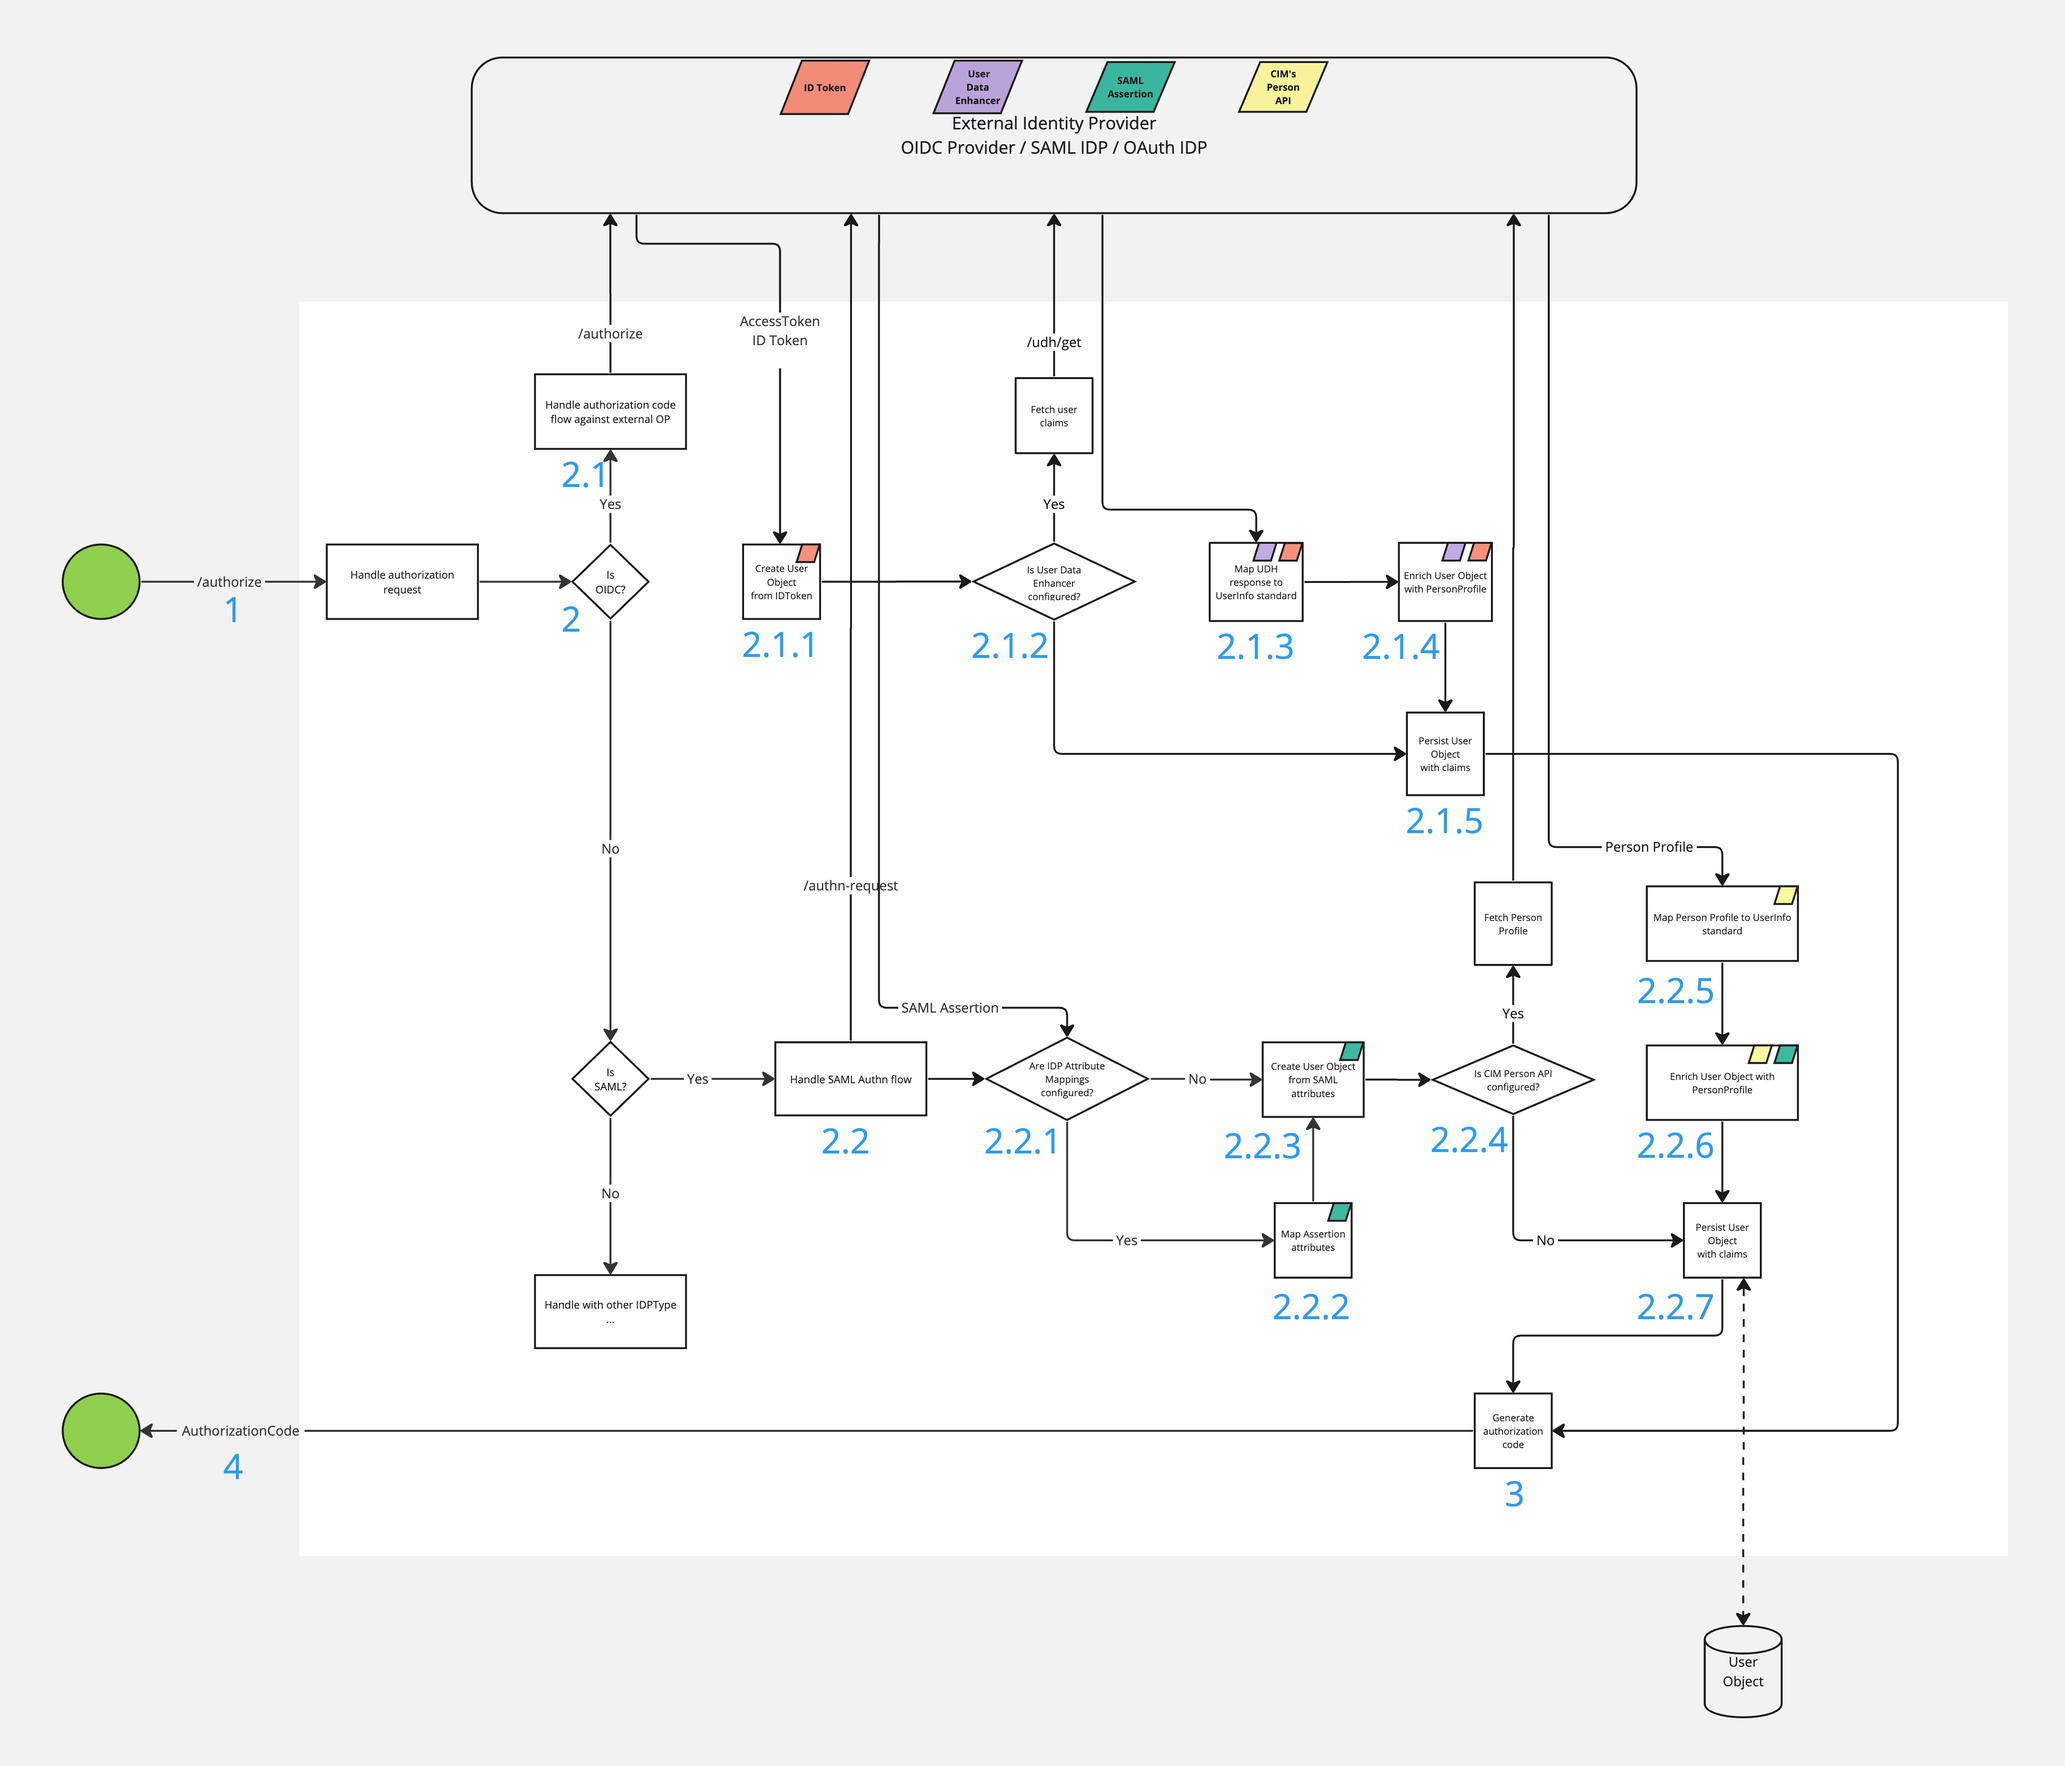
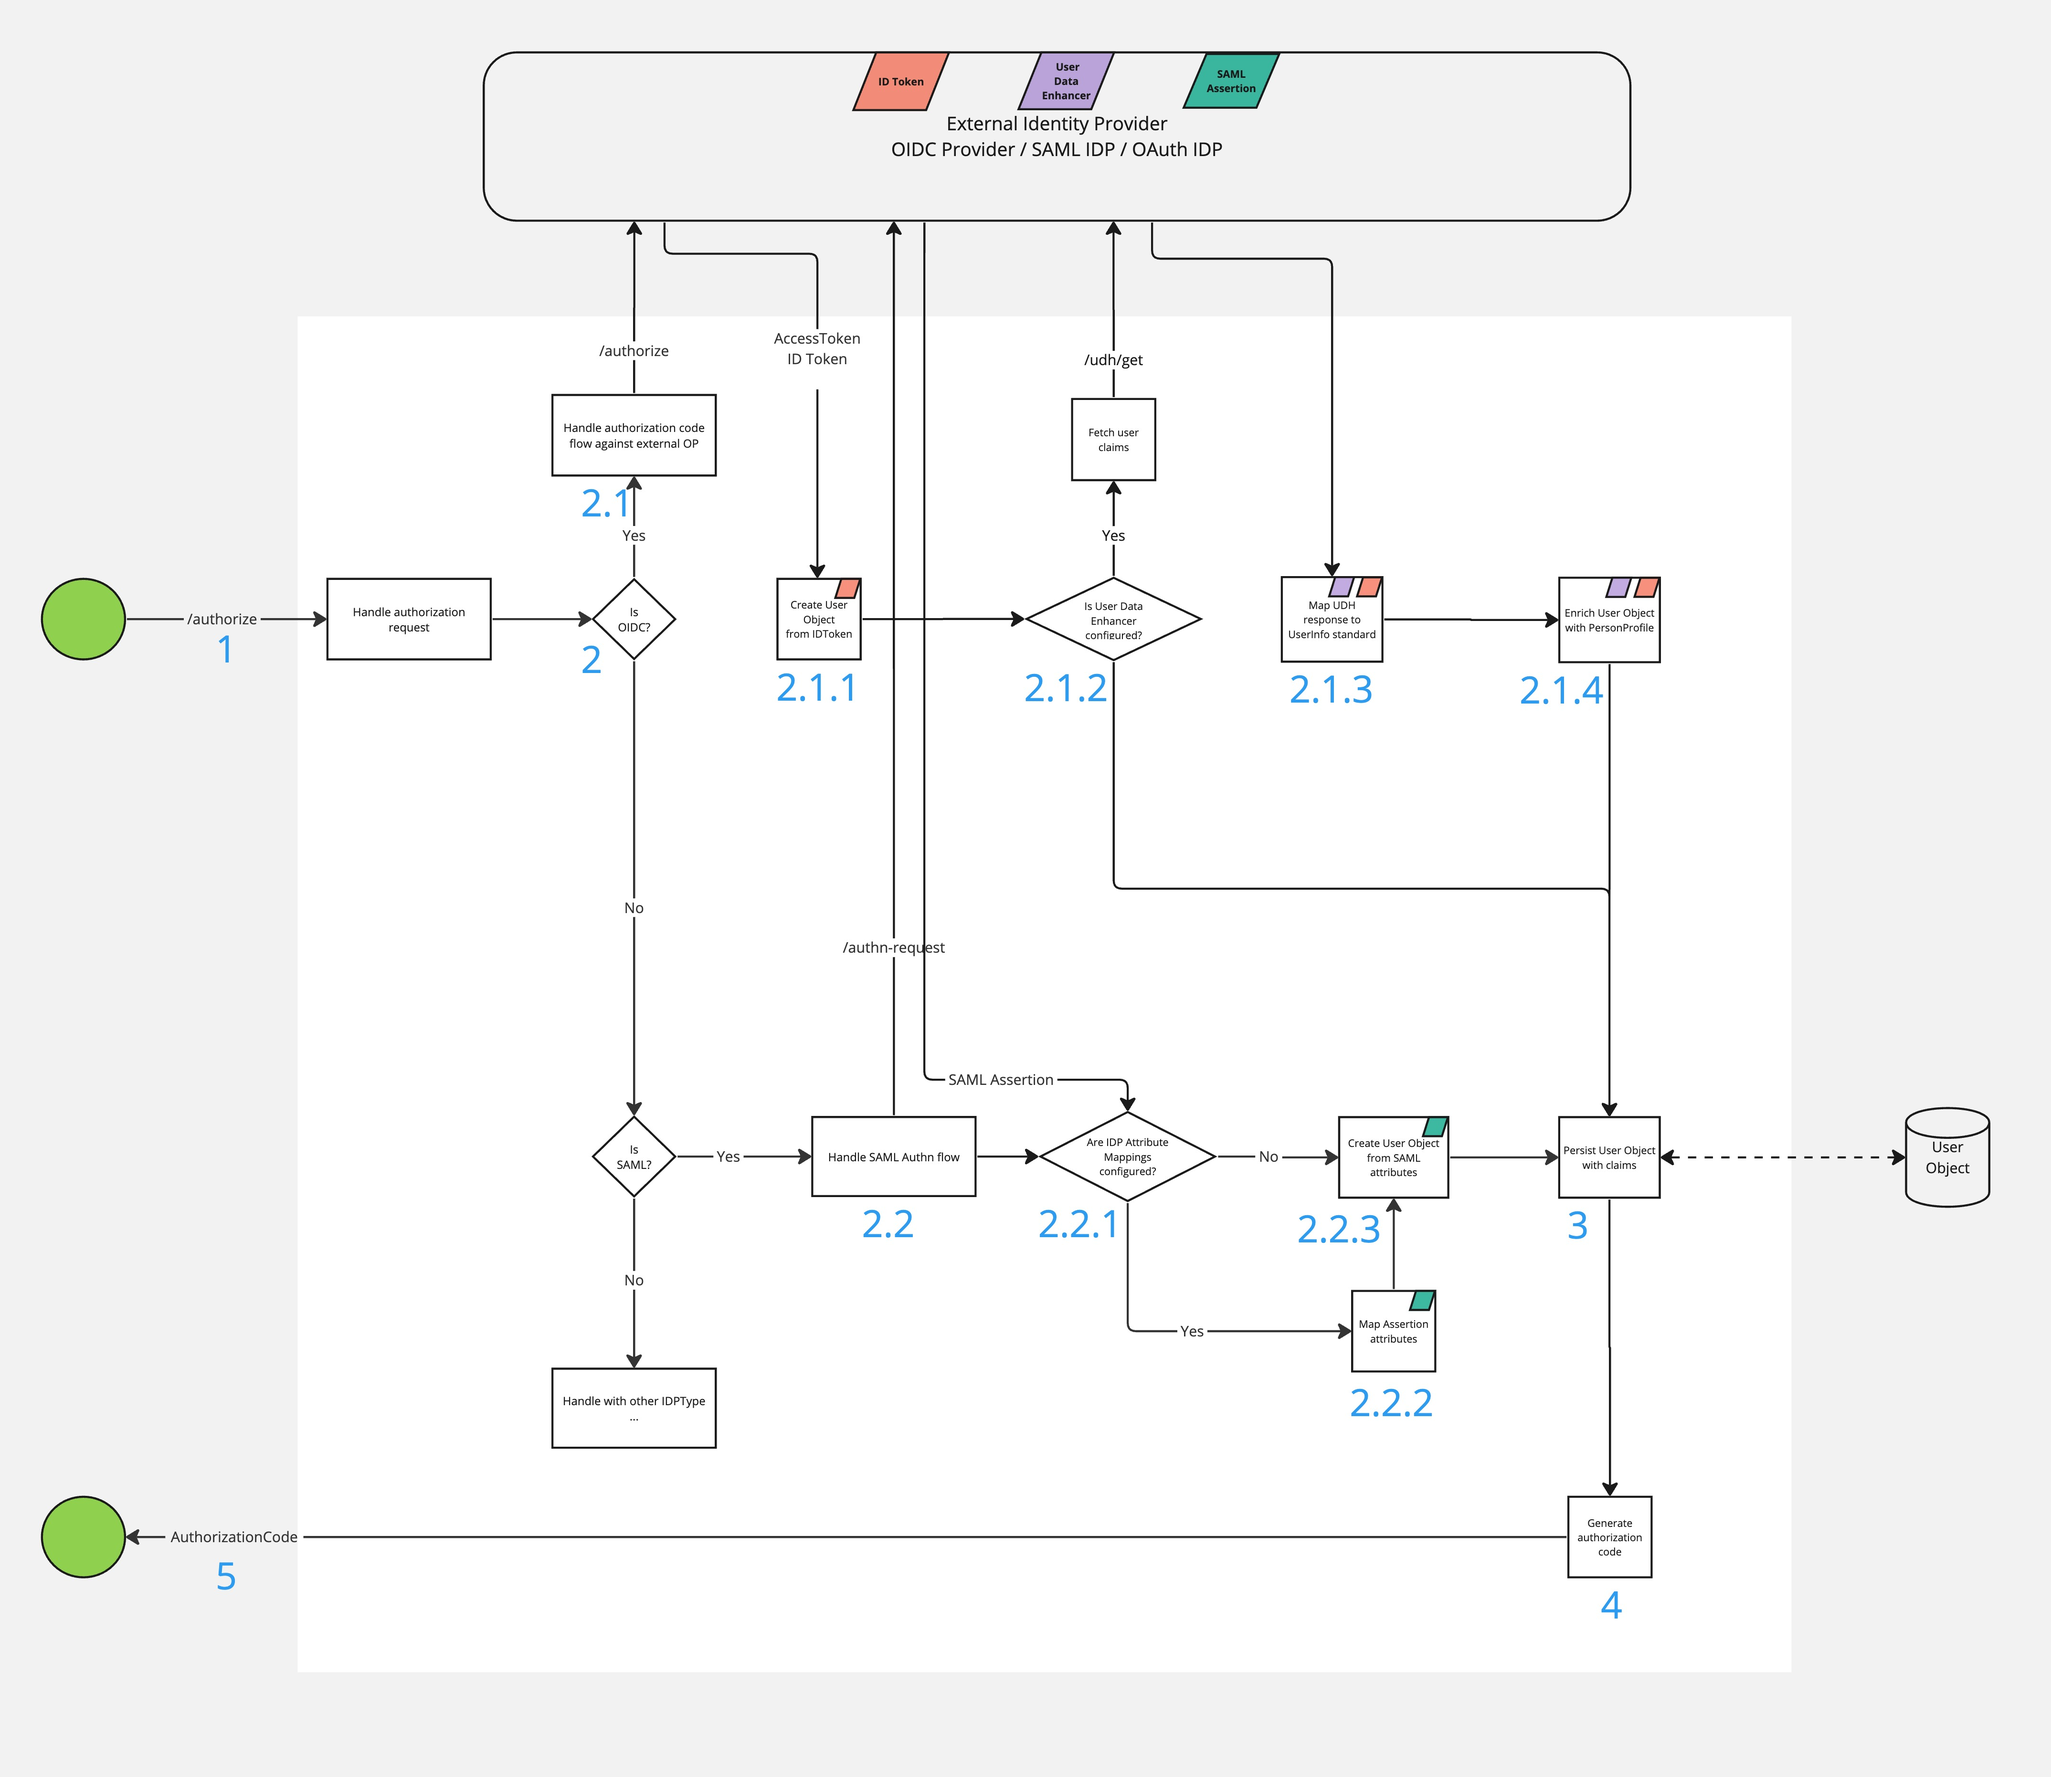
SAAS-1017 Review changes

diff --git a/docs/products/access/topics/oidc/claims-lifecycle/claims-lifecycle.md b/docs/products/access/topics/oidc/claims-lifecycle/claims-lifecycle.md
@@ -13,15 +13,14 @@ This section aims to explain and visualise how Access deals with user claims/att
        authorization request.
         1. Once authenticated, the OIDC Provider redirects back to Access with the authorisation code and Access exchanges the code for the
            AccessToken / IDToken pair. The IDToken is the primary source of information about the user. An internal User Object is created
-           and populated with all the user claims available in the IDToken. In addition to the user attributes, the AMR claim is also stored
-           in the User Object.
+           and populated with all the user claims available in the IDToken. In addition to the user attributes, the AMR and ACR claims are
+           also stored in the User Object.
         2. If the IdentityProvider is of type Tulip, it is likely that a User Data Enhancer (UDH) API integration is configured. If this is
            the case, the user claims are requested via another API call from UDH, Access passes the user identifier (subject) and a set of
            scopes requested by the client. Otherwise, the User Object is persisted (see #2.a.5).
         3. The UDH response is mapped to a UserInfo standard format.
         4. The User Object is populated with any claims returned by the UDH service. If a given claim already exists in the user object,
            it's overwritten with the one coming from UDH, which is considered more recent.
-        5. The User Object with all the claims is persisted.
     2. If the underlying IdentityProvider is of SAML type (e.g. CIM), Access redirects the user to the defined SAML Identity Provider with
        SAML AuthnRequest (whether it is a redirect or a POST call depends on the integration characteristic).
         1. Access processes the SAML AuthnResponse.
@@ -31,16 +30,10 @@ This section aims to explain and visualise how Access deals with user claims/att
         2. SAML assertion attributes are mapped to claims according to the configuration. Any unmapped attributes are discarded/filtered
            out.
         3. An internal user object is created and populated with all user claims provided by the SAML assertion. Next to the user
-           attributes, the ARR (AMR) assertion is also stored in the User Object.
-        4. If the IdentityProvider is of type CIM, it is likely that a Person API integration is configured. If this is the case, the Person
-           profile is requested by another API call from the CIM, Access will pass the person identifier. Otherwise, the User object will be
-           persisted (see [#2.2.7.](#2.2.7.)).
-        5. The Person API response is mapped to a standard UserInfo format.
-        6. The User object is populated with any claims returned by the CIM Person API. If a given claim is already present in the User
-           object, it's overwritten with the one coming from the CIM Person Profile, which is considered more recent.
-        7. The User Object with all the claims is persisted.
-3. The authorization request is considered successful, Access generates the _authorization_code_.
-4. The OAuth Client / OIDC Relying Party receives a 302 Redirect with the _authorization_code_ from Access.
+           attributes, the AMR/ACR value is also stored in the User Object.
+3. The User Object with all the claims is persisted.
+4. The authorization request is considered successful, Access generates the _authorization_code_.
+5. The OAuth Client / OIDC Relying Party receives a 302 Redirect with the _authorization_code_ from Access.
 
 ## Token
 
@@ -57,20 +50,23 @@ This section aims to explain and visualise how Access deals with user claims/att
     3. [Access Token Customization Web Hook](https://docs.onegini.com/products/access/topics/integration-extension/hooks/customize-access-token/customize-access-token-hook/)
        is executed. The hook implementation is provided with all available user information, as well as contextual details about the Access
        Token being created.
-4. If the underlying Identity Provider is of type OIDC and `openid` scope was requested, Access triggers ID Token assembly,
+4. If the requesting client is of OIDC type and `openid` scope was requested, Access triggers ID Token assembly,
    see [#4.1](#4.1.).
     1. Access starts to assemble all the details needed to generate the ID token, using the internal User Object as the source of the user
        information.
-    2. Retrieve user claims from the underlying Identity Provider if available, see [#4.3.](#4.3.), otherwise [#4.5.](#4.5.).
-    3. Retrieve user claims from the underlying Identity Provider (depending on the type of Identity Provider, different sources may be
-       considered here). If the user claims were fetched during the authorisation code flow, Access will resolve them from an internal
-       cache.
-    4. The User Object is populated with any claims returned by the User Info API. If a given claim already exists in the User Object, it is
-       overwritten with the one from the User Info source, which is considered more recent.
-    5. If a User Details Customisation Web Hook is configured for a requesting OAuth client/OIDC Relying Party, proceed to
-       to [#4.6.](#4.6.).
-    6. [User Details Customization Web Hook](https://docs.onegini.com/products/access/topics/integration-extension/hooks/customize-user-details/customize-user-details-hook/)
-       is executed. The hook implementation is provided with all available user information, as well as contextual details about the ID
-       token being created.
+    2. Retrieve user claims from the underlying Identity Provider if available, otherwise see [#4.2.6.](#4.2.6.).
+        1. Retrieve user claims from the underlying Identity Provider (depending on the type of Identity Provider, different sources may be
+           considered here). If the user claims were fetched during the authorisation code flow, Access will resolve them from an internal
+           cache.
+        2. Check if the underlying Identity Provider is of type OIDC, otherwise see [#4.2.3.](#4.2.3.).
+        3. If the underlying Identity Provider is of type SAML (e.g. CIM), otherwise see [#4.2.6.](#4.2.6.).
+        4. If `Map Assertion Attributes` feature toggle is enabled for underlying SAML Identity Provider, otherwise see [#4.2.6.](#4.2.6.).
+        5. The User Object is populated with all the claims returned by the User Info API. If a given claim already exists in the User
+           Object, it will be overwritten with the claim from the User Info source, which is considered more recent.
+        6. If a User Details Customisation Web Hook is configured for a requesting OAuth client/OIDC Relying Party, proceed to
+           to [#4.6.](#4.6.).
+        7. [User Details Customization Web Hook](https://docs.onegini.com/products/access/topics/integration-extension/hooks/customize-user-details/customize-user-details-hook/)
+           is executed. The hook implementation is provided with all available user information, as well as contextual details about the ID
+           token being created.
 5. Access generates an Access Token and ID Token (if requested).
 6. The OAuth Client/OIDC Relying Party receives a token response from Access.

diff --git a/docs/products/access/topics/general-app-config/identity-providers/identity-providers.md b/docs/products/access/topics/general-app-config/identity-providers/identity-providers.md
@@ -5,7 +5,7 @@ supports multiple integrations with identity providers out of the box. Custom in
 
 Go to `Configuration` and then to `Identity providers` to configure identity providers in the admin console.
 
-## General configurationgit
+## General configuration
 
 ![Add IdP](img/add-idp.png)
 
